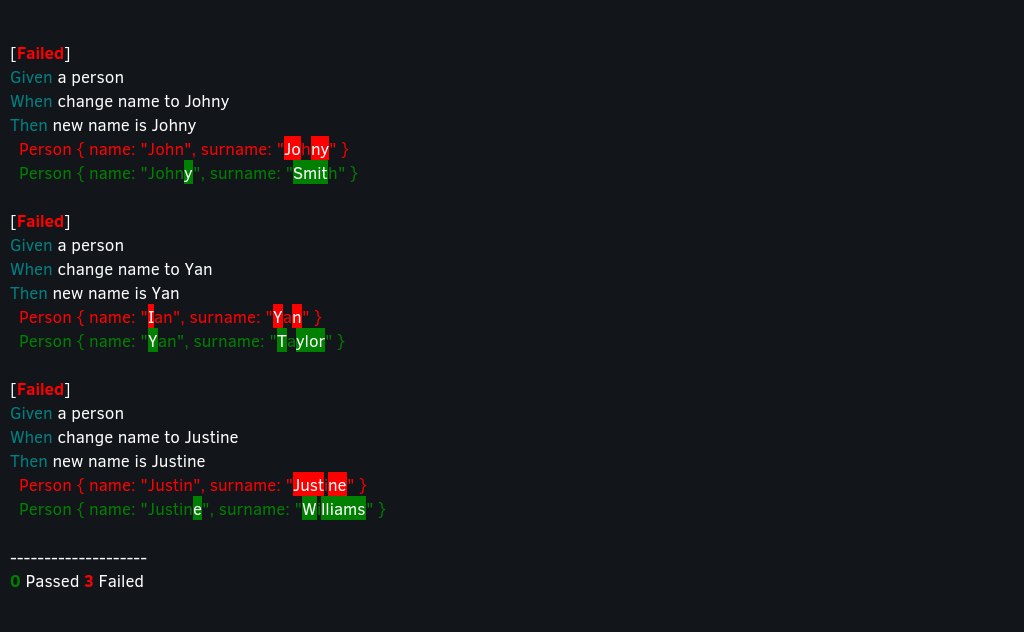
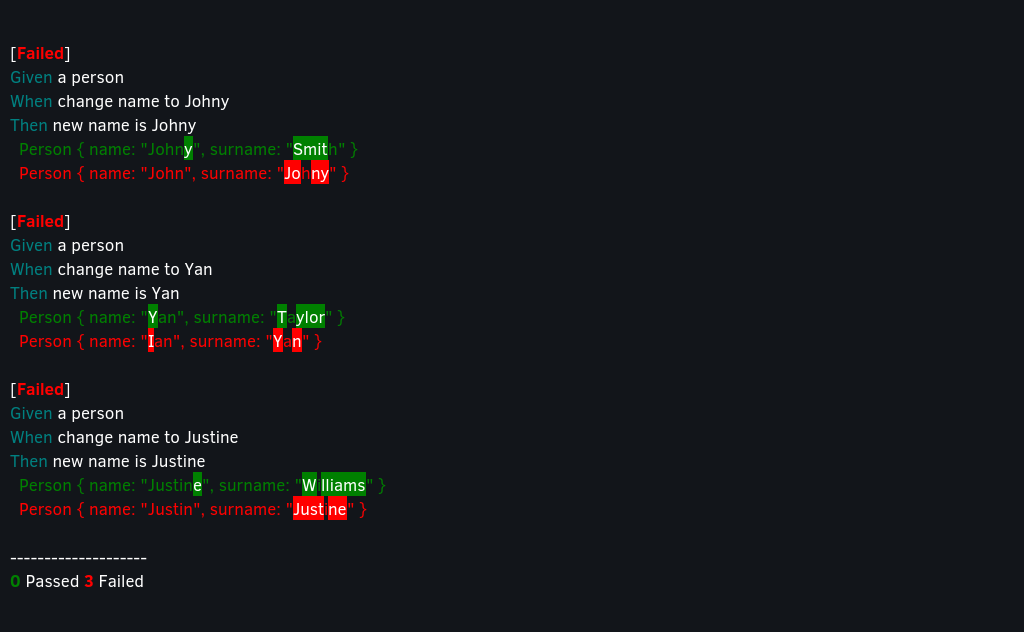
Refactor and bump version to 0.2.0

Changed region(s): [[0.0, 0.7215, 0.375, 0.8418], [0.0, 0.481, 0.3438, 0.5712], [0.0, 0.2104, 0.3438, 0.3006]]

diff --git a/tests/integration_test.rs b/tests/integration_test.rs
@@ -18,10 +18,10 @@ fn given_correct_add_function_when_use_table_test_then_no_panic() {
         ((0, 1, -6), -5),
     ];
 
-    for (validator, (input_1, input_2, input_3), expected) in table_test!(table) {
+    for (test_case, (input_1, input_2, input_3), expected) in table_test!(table) {
         let actual = correct_add(input_1, input_2, input_3);
 
-        validator
+        test_case
             .given(&format!("{}, {}, {}", input_1, input_2, input_3))
             .when("add")
             .then(&format!("it returns {}", expected))
@@ -39,10 +39,10 @@ fn given_incorrect_add_function_when_use_table_test_then_panic() {
         ((0, 1, -6), -5),
     ];
 
-    for (validator, (input_1, input_2, input_3), expected) in table_test!(table) {
+    for (test_case, (input_1, input_2, input_3), expected) in table_test!(table) {
         let actual = incorrect_add(input_1, input_2, input_3);
 
-        validator
+        test_case
             .given(&format!("{}, {}, {}", input_1, input_2, input_3))
             .when("add")
             .then(&format!("it returns {}", expected))

diff --git a/examples/multiple_outputs.rs b/examples/multiple_outputs.rs
@@ -8,23 +8,23 @@ fn main() {
         ("Justin Williams", ("Justin", "Williams")),
     ];
 
-    for (validator, input, (expected_1, expected_2)) in table_test!(table) {
+    for (test_case, input, (expected_1, expected_2)) in table_test!(table) {
         let mut actuals = input.split_whitespace();
 
         let name = actuals.next();
-        let validator = validator
+        let test_case = test_case
             .given("a name and surname")
             .when("split whitespace")
             .then("first next returns the name")
             .assert_eq(Some(expected_1), name);
 
         let surname = actuals.next();
-        let validator = validator
+        let test_case = test_case
             .then("second next returns the surname")
             .assert_eq(Some(expected_2), surname);
 
         let none = actuals.next();
-        validator
+        test_case
             .then("third next returns None")
             .assert_eq(None, none);
     }

diff --git a/src/table.rs b/src/table.rs
@@ -69,8 +69,8 @@ mod tests {
             ("worst name ever", false),
         ]);
 
-        for (validator, name, expected) in table {
-            validator
+        for (test_case, name, expected) in table {
+            test_case
                 .given(name)
                 .when("validate is beautiful")
                 .then(&format!("{}", expected))
@@ -82,8 +82,8 @@ mod tests {
     pub fn given_wonderful_names_when_validate_is_beautiful_then_table_dont_panic() {
         let table = Table::new(vec![("a beautiful name", true), ("an amazing name", true)]);
 
-        for (validator, name, expected) in table {
-            validator
+        for (test_case, name, expected) in table {
+            test_case
                 .given(name)
                 .when("validate is beatifull")
                 .then(&format!("{}", expected))

diff --git a/examples/custom_comments.rs b/examples/custom_comments.rs
@@ -1,0 +1,25 @@
+#[macro_use]
+extern crate table_test;
+
+fn add(val_1: i64, val_2: i64) -> i64 {
+    val_1 * val_2 // Oups used * instead of +
+}
+fn main() {
+    let table = vec![
+        ((1, 2), 3),
+        ((2, 5), 7),
+        ((0, 0), 0),
+        ((0, 1), 1),
+        ((2, 2), 4),
+    ];
+
+    for (test_case, inputs, output) in table_test!(table) {
+        let actual = add(inputs.0, inputs.1);
+
+        test_case
+            .description("test the add function")
+            .custom("Inputs", &format!("{:?}", inputs))
+            .custom("Output", &format!("{:?}", output))
+            .assert_eq(actual, output);
+    }
+}

diff --git a/examples/mutable_struct.rs b/examples/mutable_struct.rs
@@ -36,10 +36,10 @@ fn main() {
         ),
     ];
 
-    for (validator, (mut person, new_name), expected) in table_test!(table) {
+    for (test_case, (mut person, new_name), expected) in table_test!(table) {
         person.change_name(new_name);
 
-        validator
+        test_case
             .given("a person")
             .when(&format!("{}{}", "change name to ", new_name))
             .then(&format!("{}{}", "new name is ", expected.name))

diff --git a/examples/multiple_inputs.rs b/examples/multiple_inputs.rs
@@ -13,10 +13,10 @@ fn main() {
         ((2, 2), 4),
     ];
 
-    for (validator, (input_1, input_2), expected) in table_test!(table) {
+    for (test_case, (input_1, input_2), expected) in table_test!(table) {
         let actual = add(input_1, input_2);
 
-        validator
+        test_case
             .given(&format!("{}, {}", input_1, input_2))
             .when("add")
             .then(&format!("it should be {}", expected))

diff --git a/src/formater/colorful_formater.rs b/src/formater/colorful_formater.rs
@@ -64,5 +64,5 @@ fn diff(expected: &String, actual: &String) -> String {
             }
         }
     }
-    String::from(format!("  {}\n  {}\n", actual, expected))
+    String::from(format!("  {}\n  {}\n", expected, actual))
 }

diff --git a/README.md b/README.md
@@ -14,7 +14,7 @@ Specify this crate as `[dev-dependencies]`.
 
 ```toml
 [dev-dependencies]
-table_test = "0.1.1"
+table_test = "0.2.0"
 ```
 
 ```rust
@@ -23,8 +23,10 @@ table_test = "0.1.1"
 extern crate table_test;
 ```
 
-The table iterator returns a tuple `(validator, input, expected)`.
+The table iterator returns a tuple `(test_case, input, expected)`.
 If you have more than one input, just use a tuple of inputs.
+The `test_case` allows you to add comments like `given` `when` and `then`, but also `description` and `custom` giving you the freedom to log your tests the best way possible.
+
 ## Examples
 
 If we make a simple test for an `add` function that takes two values as input:
@@ -60,3 +62,5 @@ But the gain is when we work with something more complex.
 The example [here](examples/mutable_struct.rs) test the changing name method and the result looks like this:
 
 ![mutable struct](https://github.com/nathanielsimard/table-test/blob/master/examples_outputs/mutable_struct.png)
+
+More examples can be found in the examples folder.
